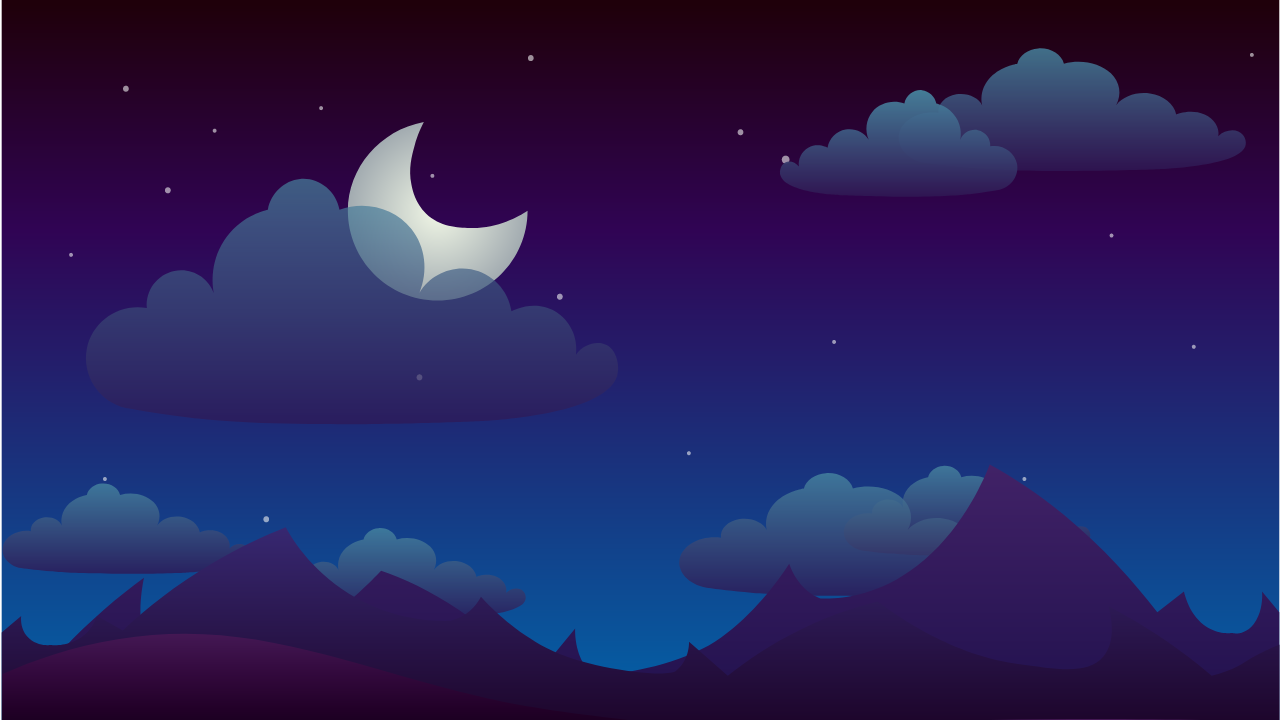
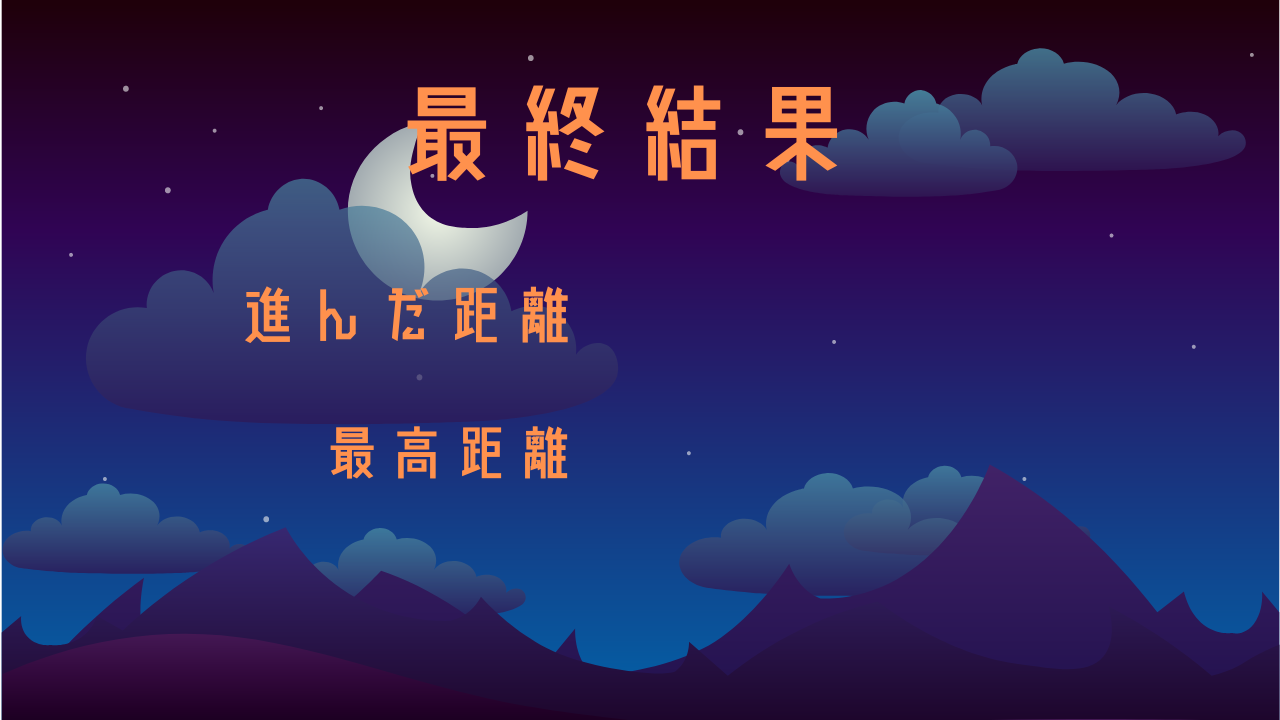
リザルト画面仮設置

diff --git a/src/Scene/SceneResult/SceneResult.h b/src/Scene/SceneResult/SceneResult.h
@@ -12,13 +12,16 @@ private:
 	int m_player_max_adv_dis;
 
 	int m_bg_handle;
+	int MyScoreHundle[10];
+	int BestScoreHundle[10]; 
+	int NewR_Hundle;
 
-	int numberHundle[10];
-	int MyScore;
-	int BestScore;
+	bool IsNewRecord;
 
 public:
 	void Init();
 	void Step();
 	void Draw();
+
+	void Test(int Hndl[10], int Score, int X, int Y);
 };

diff --git a/src/Scene/SceneTitle/SceneTitle.h b/src/Scene/SceneTitle/SceneTitle.h
@@ -7,6 +7,8 @@ class SceneTitle :public SceneBace
 {
 private:
 	int m_bg_handle;
+	int TitleHandl;
+
 
 public:
 	void Init();
